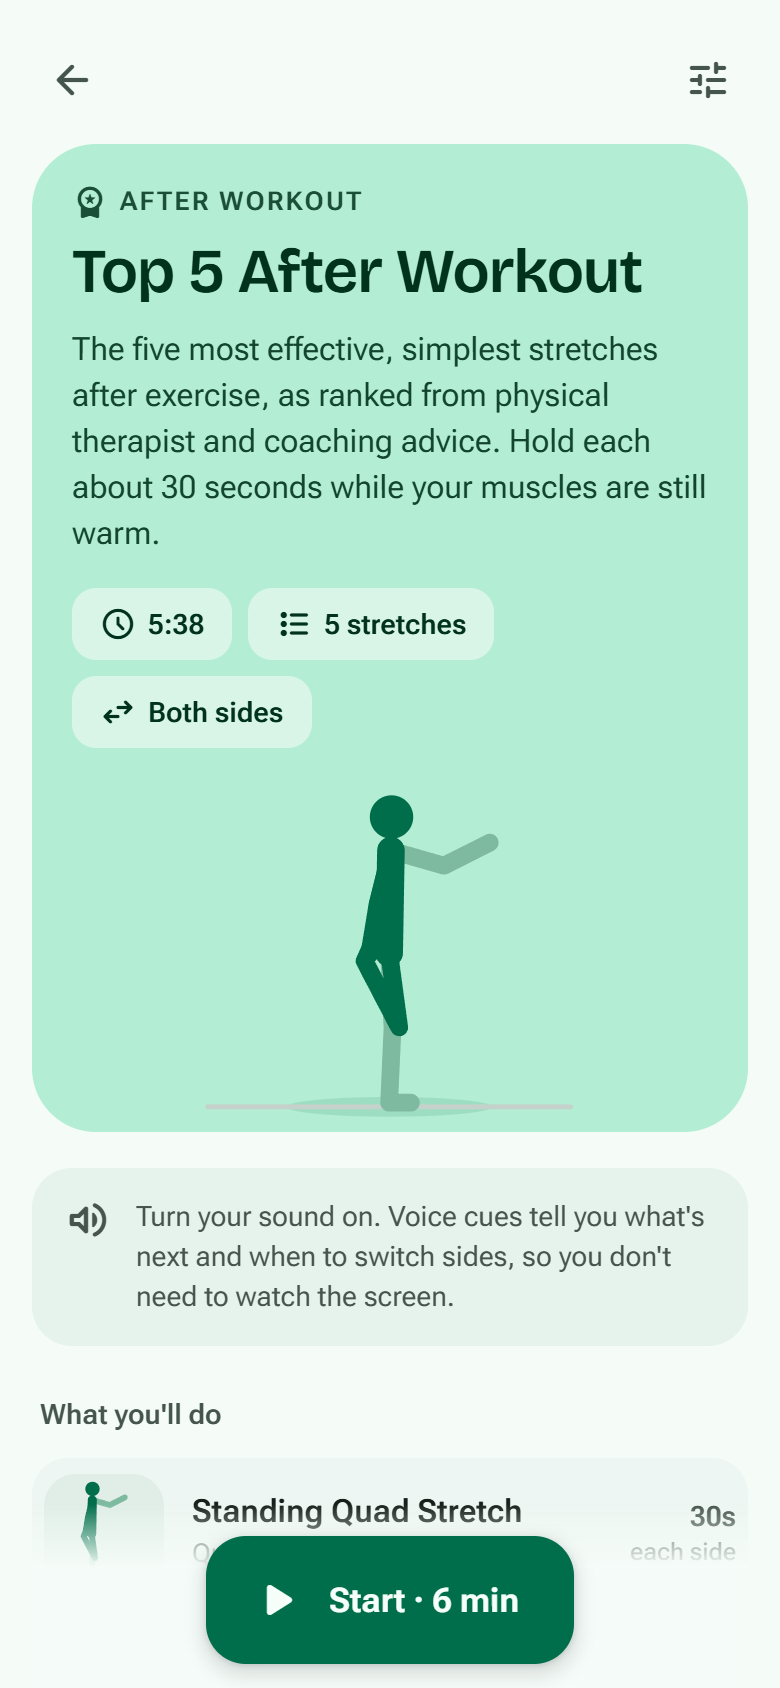
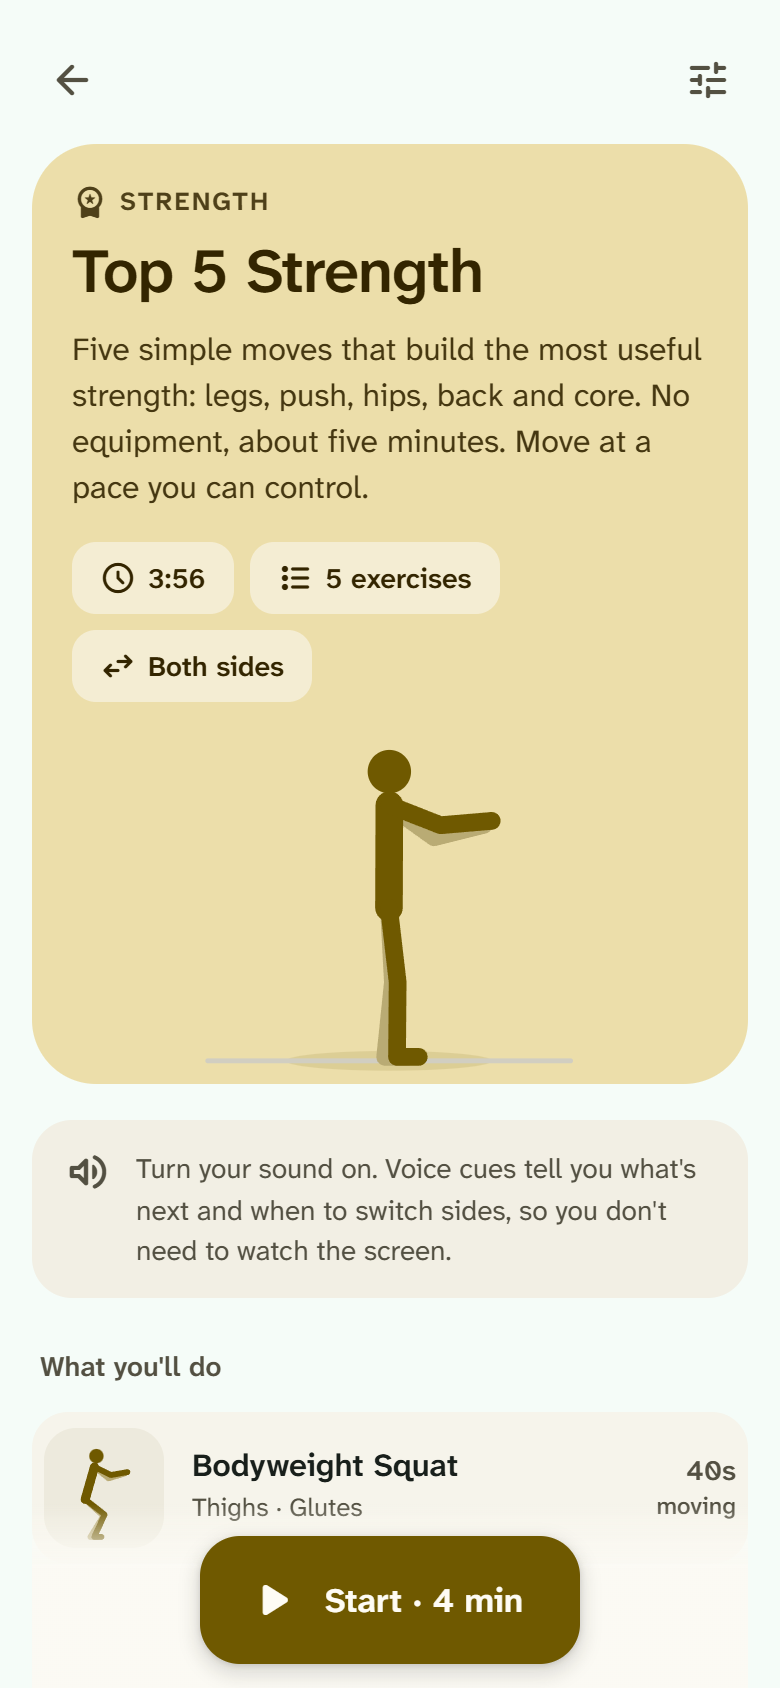
Refresh the Fibbies GitHub walkthrough and screenshots

diff --git a/README.md b/README.md
@@ -1,67 +1,58 @@
 <div align="center">
 
-<img src="icons/icon-192.png" width="96" alt="Fibbies icon">
+<img src="icons/icon-192.png" width="88" alt="Fibbies app icon">
 
 # Fibbies
 
-**Stretch for a few minutes. Open a chest. Collect a critter.**
+**Stretch a little. Build a little strength.**
 
-A follow-along stretching app for before and after a workout, at bedtime and during a work break, plus short strength sessions, with treasure chests that grow through your day.
+Follow short guided routines to warm up, wind down, or build strength. Keep a streak and find Fibbies in daily chests.
 
-**[Try Fibbies in your browser →](https://fibbies.juringari.com/)** · [Project and Android updates](https://juringari.com/fibbies/)
+**[Try Fibbies in your browser](https://fibbies.juringari.com/)** · [Android APK](https://github.com/slovenec88/fibbies/releases/latest) · [Project page](https://juringari.com/fibbies/)
 
-<img src="docs/screenshots/home.png" width="230" alt="Home screen with level, streak, today's bonus tiles and quick starts">&nbsp;
-<img src="docs/screenshots/stretch.png" width="230" alt="A stretch in progress with an animated figure and timer">&nbsp;
-<img src="docs/screenshots/album.png" width="230" alt="The Fibbie album with collected critters and shadows still to find">
+<img src="docs/screenshots/home.png" width="210" alt="Fibbies home screen with four quick starts, a streak, and six Fibbies discovered">
+<img src="docs/screenshots/stretch.png" width="210" alt="Top 5 Strength session showing an animated bodyweight squat and a countdown">
 
 </div>
 
-## Stretching that's easy to keep doing
+## How it works
 
-Most people know they should stretch, and most skip it. Fibbies makes it short, guided and worth coming back to.
+### Meet the routines
 
-- **Press Start and follow along.** An animated figure shows each pose. A voice tells you what's next and when to switch sides, so you don't need to watch the screen. The screen stays on until you're done.
-- **Two to ten minutes.** There are 28 routines for warming up, cooling down, relaxing, quick breaks and strength, including a 2-minute routine for busy days.
-- **For your trouble spots.** Routines for tight hips, a stiff or sore lower back, neck and shoulders, and tight calves.
-- **Strength, kept simple.** A section of its own with 17 no-equipment moves physios give most (squats, push-ups, bird dogs, planks, slow calf lowers, wall angels and more) in 8 short routines, filtered by full body, back, legs, arms and shoulders, or core.
-- **Stretches chosen by research.** Each group starts with a *Top 5* routine. Its stretches are ranked by how well they work and how simple they are, based on physical therapist and coaching advice ([see the rankings](RANKINGS.md)).
-- **Desk-friendly.** The work-break stretches need no floor, no mat and no equipment. You can do them in office clothes next to your desk.
+Start with one of today’s picks or browse stretching and bodyweight strength routines. Try the 2-Minute Reset at your desk, warm up before a run, or work on your back, legs, arms, or core. Open a routine to see its moves and timings before you start.
+
+### Follow the stretch
+
+An animated figure shows each move and a timer keeps you on pace. Spoken cues tell you when to start, switch sides, or move on. You can pause or skip ahead, and **Session length** in Settings adjusts both stretches and strength exercises.
 
 <div align="center">
-<img src="docs/screenshots/routine.png" width="230" alt="A routine page listing its stretches">&nbsp;
-<img src="docs/screenshots/flexibility.png" width="230" alt="The flexibility check with a progress chart">
+<img src="docs/screenshots/routine.png" width="200" alt="Top 5 Strength preview with five exercises and the first movement listed">
+<img src="docs/screenshots/guided-session.png" width="200" alt="Guided standing quad stretch with a countdown and playback controls">
 </div>
 
-## A reward every time
+### Open a chest
 
-- **Four chests a day, each bigger than the last.** The first new kind of routine you do in a day (warm-up, cool-down, relax or strength) opens a Wooden chest, the next a Rare one, then Epic, then a full-force Legendary show. Tap to open it and watch the counter of "muscle fibers stretched" spin up.
-- **Multipliers stack up.** You get them for a daily streak, a perfect session, a lucky roll and *today's bonus*: each kind of routine you do in a day (warm-up, cool-down, relax, strength) adds +25% to everything you earn for the rest of that day. A day runs until 2 AM.
-- **Better chests, braver Fibbies.** A Fibbie in a Wooden chest runs off 4 times in 10; from an Epic or Legendary chest it never does. Repeats and Quick routines still earn fibers and XP.
-- **Skipping doesn't pay.** Sessions less than half done earn nothing.
+Your first warm-up, cooldown, evening routine, and strength session each earn a chest that day. Chests get better as you try more kinds of routines. Tap three times to see what’s inside. Quick resets and repeat routines still earn fibers and XP. Tap the orb to reveal the Well done screen.
 
-## Meet the Fibbies
+### Collect and evolve
 
-- **Every chest holds a Fibbie,** a little critter drawn by code. There are 16 originals to find, four of them in Christmas spirit (Santy, Prancy the reindeer, Flurry the snowman and Jingly the elf), and an endless number of wild ones, so a chest can hold one nobody has seen.
-- **Merge two of the same Fibbie** to evolve it through four stages, with a big show at each evolution.
-- **Fill the album.** The originals you haven't found yet show up as shadows.
-- **Some Fibbies are shy.** Now and then one runs off before you can catch it.
+Find original Fibbies and wild ones with different shapes, colors, and faces. The [album](docs/screenshots/album.png) tracks your discoveries. Merge two matching Fibbies at the same stage to see their next form.
 
-## See your progress
+<div align="center">
+<img src="docs/screenshots/chest.webp" width="200" alt="A rare chest cracked open and glowing before the last tap">
+<img src="docs/screenshots/evolution.webp" width="200" alt="The evolution screen revealing Ultra Hippy with wings">
+</div>
 
-- **Weekly flexibility check:** four quick self-tests (both sides where it matters) give you a score and a chart over time.
-- **Streaks and levels:** a day streak, XP levels and a daily bonus that lights up through the day.
-- **Your progress stays yours.** It's saved in your browser or on your Android device, with no account and no tracking. You can copy a backup code to move it between devices.
+## Make it yours
 
-## Made for phones
+- Build a streak, level up, and track changes with the [weekly flexibility check](docs/screenshots/flexibility.png).
+- Install Fibbies from your browser for offline use, or download the signed Android APK from GitHub Releases.
+- Use the app and spoken guidance in English, German, Spanish, French, Italian, Portuguese, or Slovenian.
+- Your progress stays on your device. Copy a backup code in Settings to move it between devices.
 
-- **Material You design** that follows your phone's light or dark mode.
-- **Works offline.** Install it to your home screen as a web app, or use the Android app.
-- **7 languages,** spoken cues included: English, German, Spanish, French, Italian, Portuguese and Slovenian.
-- **Safety first:** a short note on how to stretch safely, and a session length you can change for stretches and exercises alike. *Max* makes the longest sessions: every still stretch held 60 seconds a side for flexibility, and strength exercises 50% longer.
+## The code
 
----
-
-Building or contributing? See [DEVELOPING.md](DEVELOPING.md). Ideas for what's next are in [TODO.md](TODO.md).
+See [DEVELOPING.md](DEVELOPING.md) to run Fibbies locally, [RANKINGS.md](RANKINGS.md) for the stretch rankings, and [GitHub Issues](https://github.com/slovenec88/fibbies/issues) to report a problem or share an idea.
 
 Fibbies was created by **Davor Val Vega**. It's free and open source under the [GNU Affero General Public License v3.0 only](LICENSE). You may use, change and share it, but any copy or changed version must stay open source under the same licence, including versions run as a website, and must keep this credit (see [NOTICE](NOTICE)).
 
